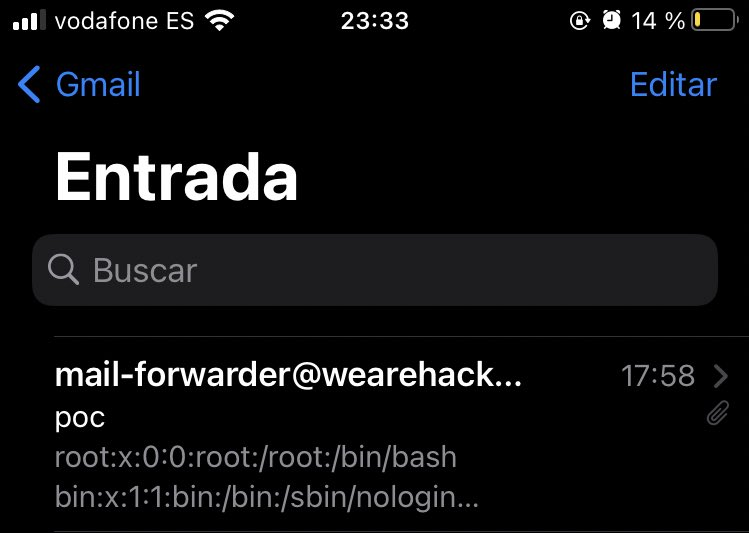
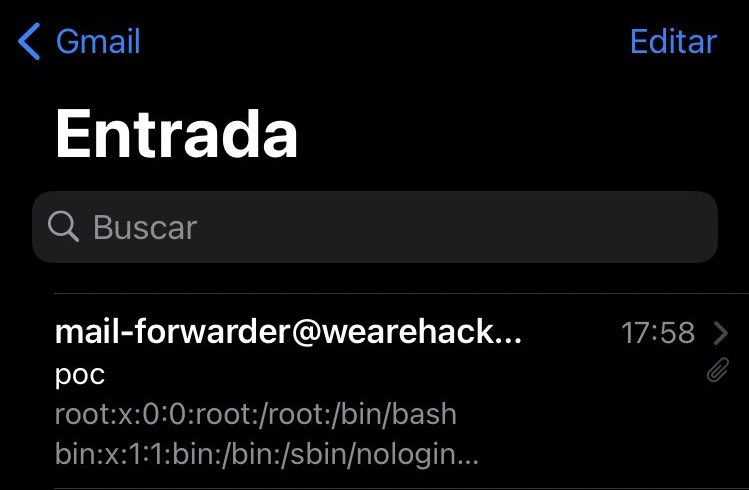
Changed header

diff --git a/_posts/2021-10-26-liquidjs-ssti-to-arbitrary-file-read copy.md b/_posts/2021-10-26-liquidjs-ssti-to-arbitrary-file-read copy.md
@@ -8,7 +8,7 @@ tags:
   - LiquidJS
   - JavaScript
 header:
-  tweet-image: 2021-10-26-header.jpeg
+  tweet-image: 2021-10-26-poc_screenshot.jpeg
 ---
 
 {% raw %}
